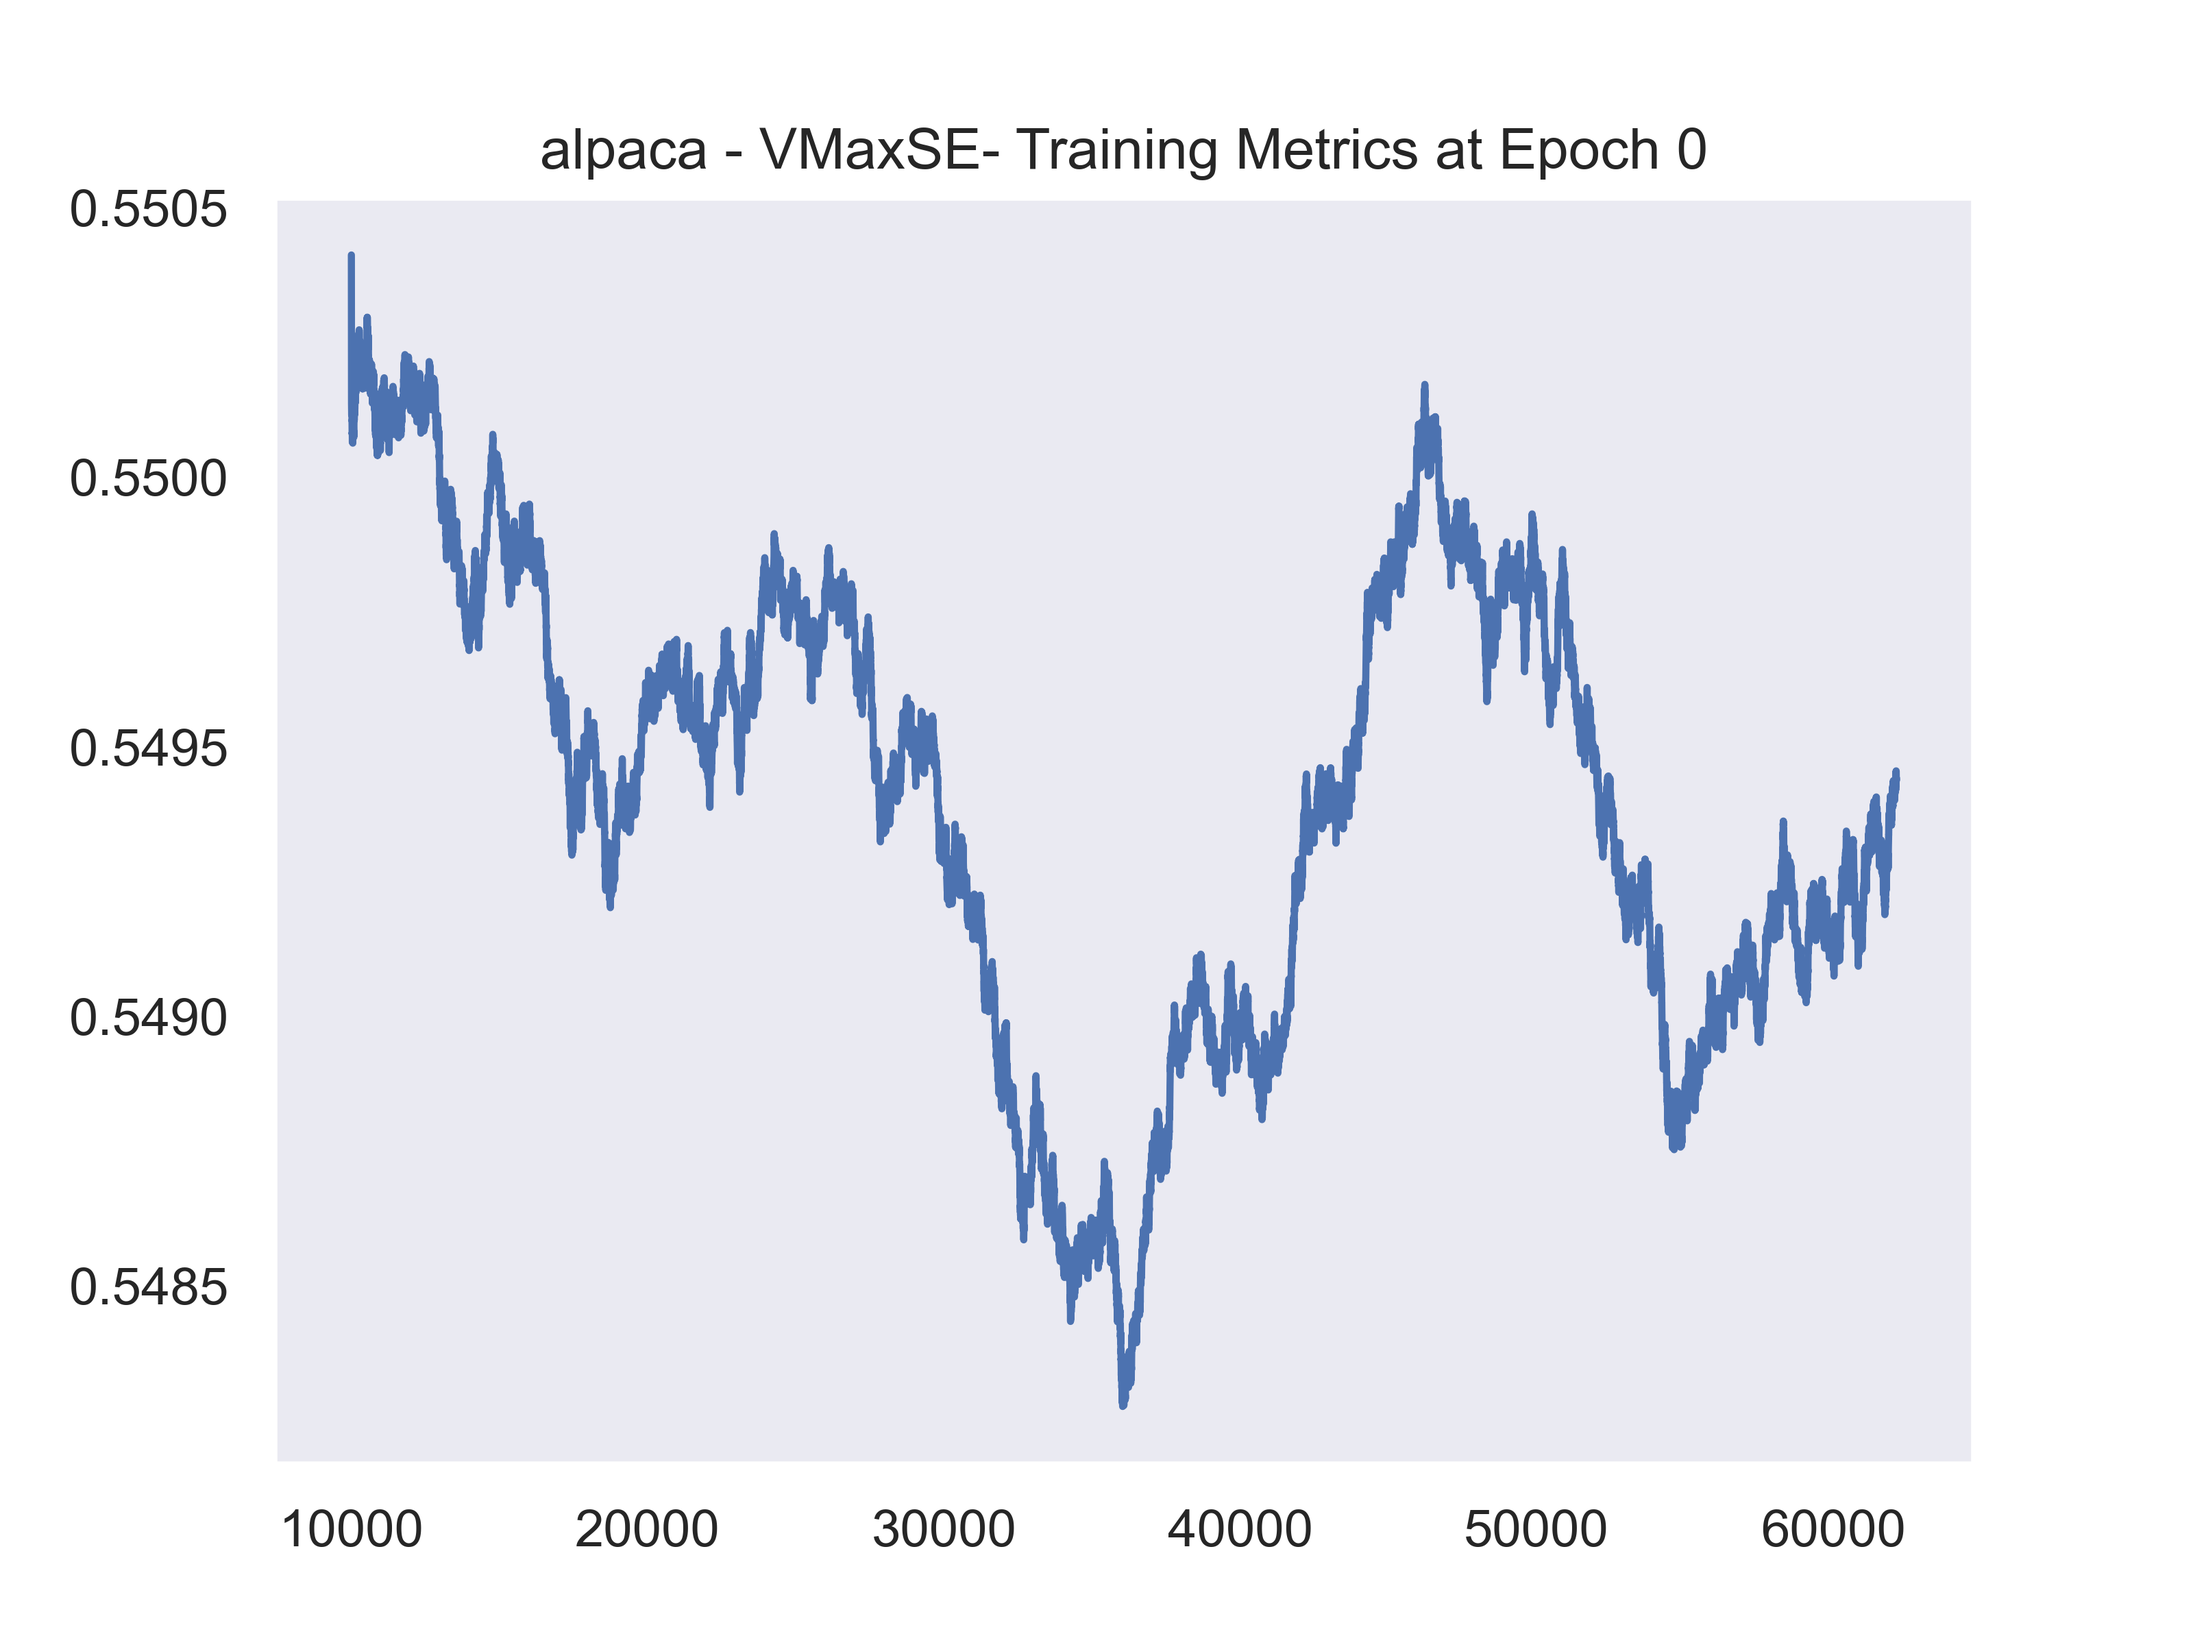
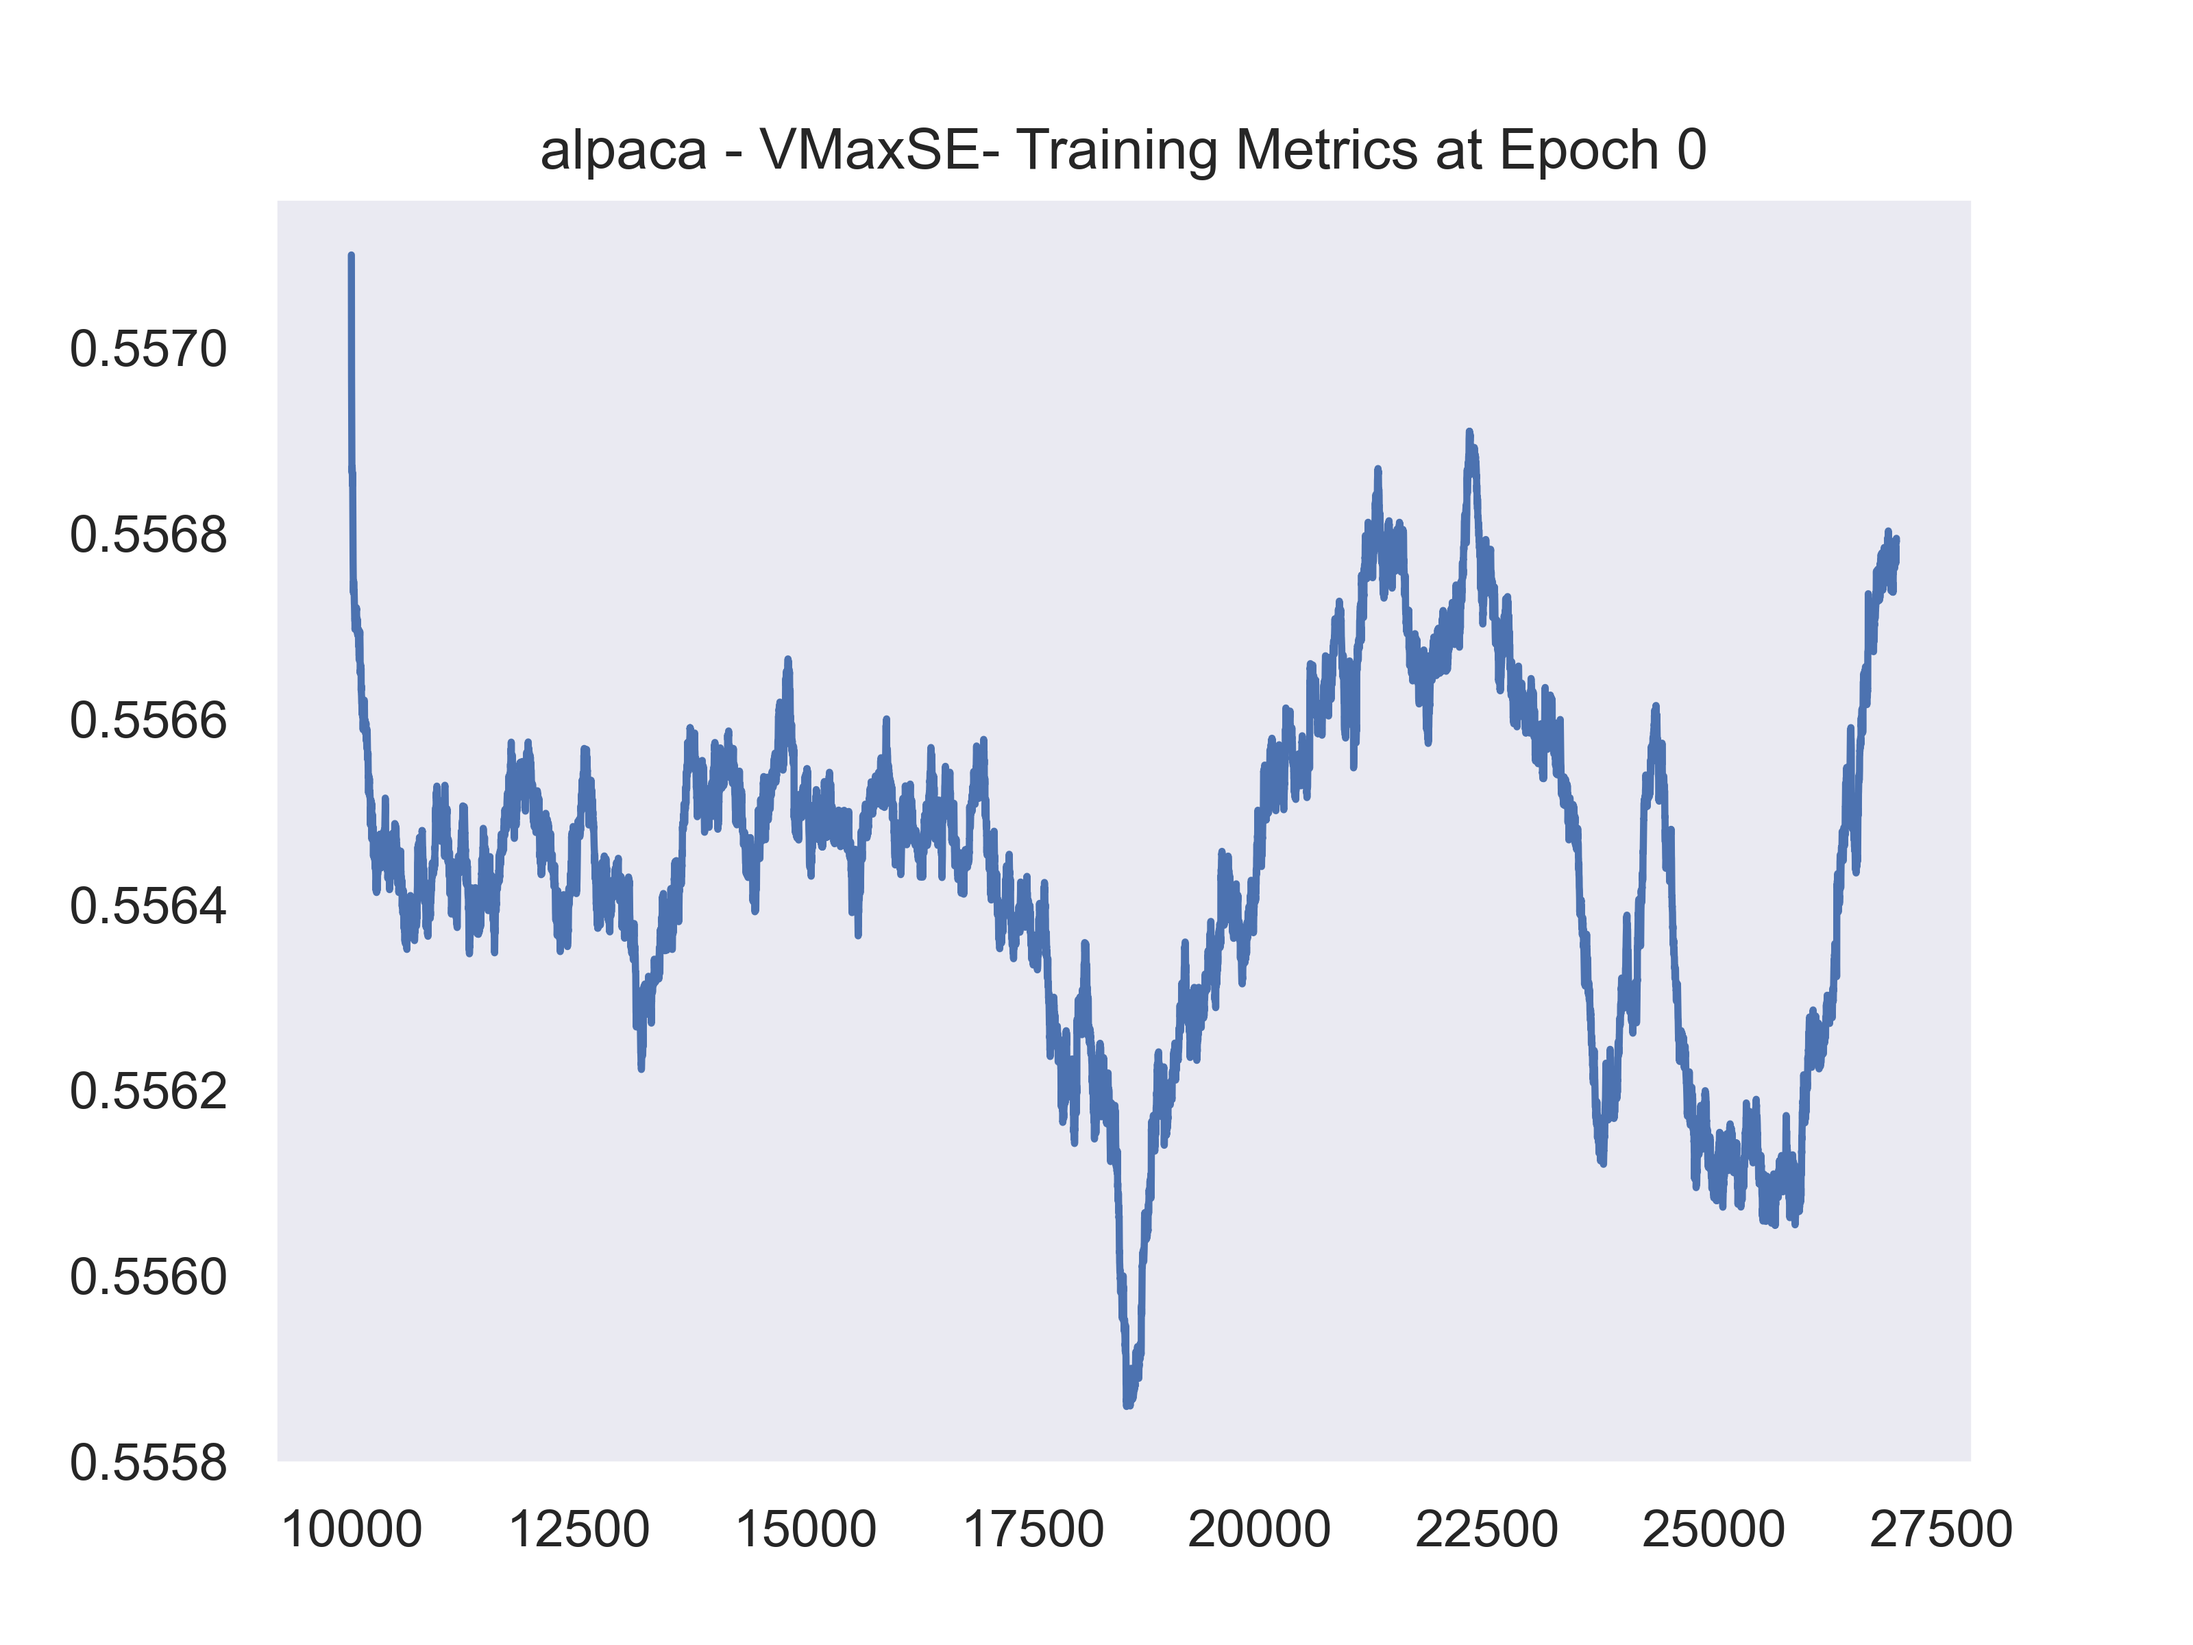
Updated paper to the latest version.

diff --git a/sibyl/utils/configuration.py b/sibyl/utils/configuration.py
@@ -23,20 +23,24 @@ class Config:
 
     :param years: A floating point coefficient for the number of years from which to fetch data.
     This parameter applies only to the Alpaca dataset. Altering this parameter will invalidate the cache,
-     please be sure to remove any associated `.pkl` files.
+    please be sure to remove any associated `.pkl` files.
     :param features: The number of features in the dataset. If None, the dataset includes all features.
     Altering this parameter will invalidate the cache, please be sure to remove any `.pkl` files.
     :param batches: The number of batches in the dataset. If None, the dataset includes all batches.
     Altering this parameter will invalidate the cache, please be sure to remove any `.pkl` files.
     :param X_window_size: The size of the feature window. If your dataset has minute intervals,
-    the window size denotes the minutes included for each feature.
+    the window size denotes the minutes included for each feature. This parameter is not optional.
+    Altering this parameter will invalidate the cache, please be sure to remove any `.pkl` files.
     :param Y_window_size: The size of the target window. If your dataset has minute intervals,
-    the target window size denotes the minutes included for each target.
+    the target window size denotes the minutes included for each target. This parameter is not optional.
+    Altering this parameter will invalidate the cache, please be sure to remove any `.pkl` files.
     :param included_indicators: A list of indicators to include in the dataset. If None, all indicators
     are included. This applies only to the Alpaca dataset.
+    Altering this parameter will invalidate the cache, please be sure to remove any `.pkl` files.
     :param epochs: The number of epochs to train the model.
     :param epoch: The current epoch.
-    :param batch_size: The batch size for training.
+    :param batch_size: The batch size for training. Altering this parameter will invalidate the cache,
+    please be sure to remove any `.pkl` files.
     :param train_val_split: A floating point between 0 and 1 for the train-validation split.
     :param learning_rate: The learning rate for the optimizer.
     :param criterion: The loss function to use. Options are "VMaxAE", "VMaxSE", "MSE", "MAE".

diff --git a/sibyl/main.py b/sibyl/main.py
@@ -222,9 +222,9 @@ def main() -> None:
     aggregated_metrics = []
     loss_functions = [
         "VMaxSE",
-        "MSE",
-        "VMaxAE",
-        "MAE",
+        # "MSE",
+        # "VMaxAE",
+        # "MAE",
     ]
     # loss_functions = ["VMaxSE"]
 
@@ -239,7 +239,7 @@ def main() -> None:
             optimizer="AdamW",
             plot_loss=True,
             plot_predictions=True,
-            plot_interval=10_000,
+            plot_interval=300,
             dataset_name=dataset,
             X_window_size=120,
             Y_window_size=15,
@@ -253,7 +253,7 @@ def main() -> None:
             batches=30_000,
             log_file_name=os.path.basename(__file__),
         )
-        X, Y = config.__dataset
+        X, Y = config.dataset
         X, Y = normalize(X, Y)
         model = initialize_model(X, Y, Dimformer)
         train_loader, val_loader = prepare_datasets(X, Y, config)

diff --git a/sibyl/utils/datasets.py b/sibyl/utils/datasets.py
@@ -71,8 +71,10 @@ def dataframe_to_dataset(
     X = X.permute(1, 2, 0)
 
     # Split into features and targets
-    X = X[config.batches :, : config.X_window_size, : config.features]
-    Y = X[config.batches :, config.X_window_size :, : config.features]
+    X = X[: config.batches, : config.X_window_size, : config.features]
+    Y = X[..., : config.features]
+
+    config.log.info(f"{X.size() = }, {Y.size() = }")
 
     return X, Y
 
@@ -82,8 +84,14 @@ def alpaca(
     config: "Config",
 ) -> tuple[Tensor, Tensor]:
     time_series = fetch_data(config=config)
-    features, targets = indicator_tensors(time_series, config=config)
-    return features, targets
+    X, Y = indicator_tensors(time_series, config=config)
+
+    X = X[: config.batches, ...]
+    Y = Y[: config.batches, ...]
+
+    config.log.info(f"{X.size() = }, {Y.size() = }")
+
+    return X, Y
 
 
 @cache
